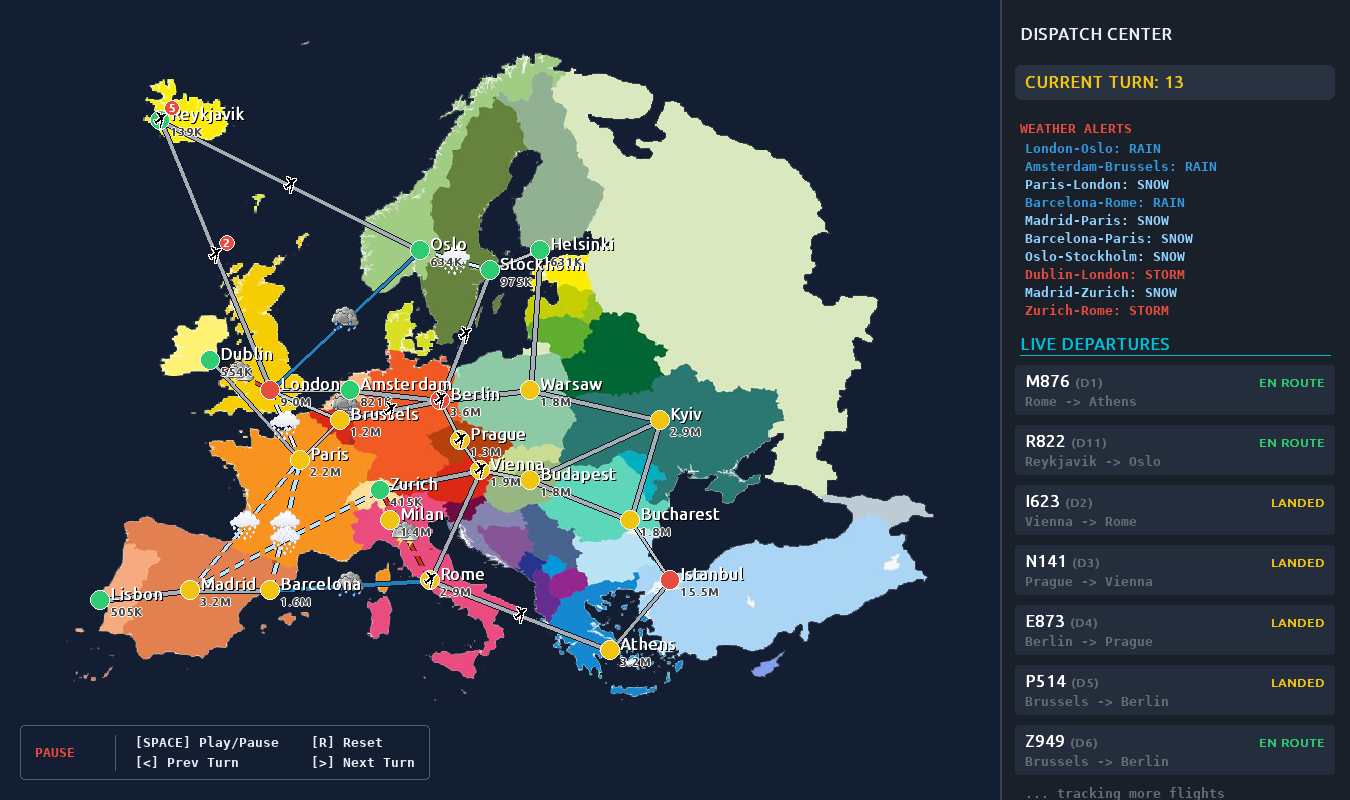
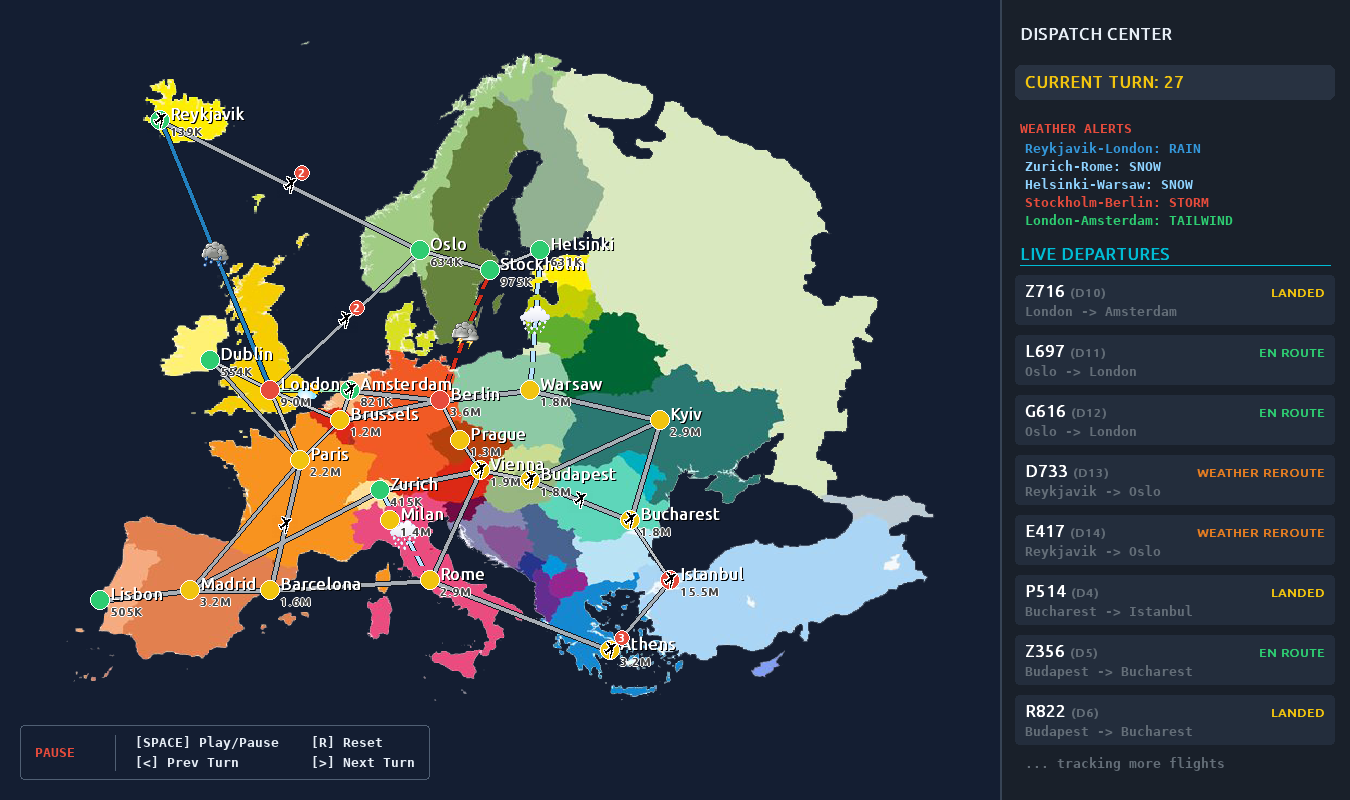
docs: show the simulator in motion
The README opens with two animations of the dispatch center: Germany,
turns 3 to 13, with cars on the roads, air lanes closing and reopening
and weather reroutes on the board, and Europe, turns 18 to 28, with air
traffic across the continent under changing weather.

A short section follows with three stills: Europe at turn 27 with all
five weather conditions and a visible weather reroute, a full-size
detail of turn 9 of the Germany animation with cars and the road and
air lane widths, and the challenger map in the unchanged standard
viewer. Each caption states only what its image shows. The full
Germany still is replaced by the animation.

diff --git a/README.md b/README.md
@@ -14,24 +14,22 @@ written from scratch in Python. On top of the routing core, the project adds
 an aviation layer: real maps of Germany and Europe, distance-based road and
 air legs, live weather, and a Pygame dispatch center.
 
-![Dispatch center on the Europe map at turn 13: air lanes closed by snow and storms drawn dashed, rain lanes open, wider lanes for higher capacity, weather alerts, and the departure board](docs/images/europe-simulation.png)
+![Animated dispatch center on the Germany map, turns 3 to 13: cars drive the road lanes, aircraft move from hub to hub, air lanes close and reopen with the weather, and the departure board marks weather reroutes](docs/images/germany-dispatch-center.gif)
 
-_Europe, turn 13: snow and storms close air lanes (dashed) while rain
-leaves them open, and wider lanes have a higher capacity._
+_Germany, turns 3–13, one frame per turn. Cars drive the roads while
+aircraft move from hub to hub; most air legs here take a single turn.
+Storms and snow close air lanes (dashed) until the weather clears, but
+the road from Kiel to Hamburg stays open through a storm. Flights whose
+route the weather changed show `WEATHER REROUTE` on the board._
 
-![Dispatch center on the Germany map at turn 9: closed air lanes and open road lanes in snow, cars on road legs, and weather reroutes on the departure board](docs/images/germany-simulation.png)
+![Animated dispatch center on the Europe map, turns 18 to 28: aircraft in flight across the continent, air lanes closing and reopening, and weather reroutes on the departure board](docs/images/europe-dispatch-center.gif)
 
-_Germany, turn 9: snow closes the air lanes but not the roads, where cars
-keep driving; two flights from Kiel are on a weather reroute._
+_Europe, turns 18–28: aircraft cross the continent as snow and storms
+close air lanes and others reopen, and the board lists flights on a
+weather reroute._
 
-![Standard turn viewer on the challenger map at turn 24: aircraft spread over parallel routes, lanes in use by multi-turn legs in blue, and the turn's movements above the map](docs/images/challenger-turn-viewer.png)
-
-_Challenger map, turn 24, in the standard turn viewer: aircraft spread
-over parallel routes, blue lanes carry legs that take more than one turn,
-and the turn's movements are listed above the map._
-
-The screenshots are generated by `make screenshots` (see
-[Development](#development)).
+Both animations and the screenshots below are replays of seeded runs,
+regenerated with `make screenshots` (see [Development](#development)).
 
 ## Highlights
 
@@ -54,6 +52,30 @@ The screenshots are generated by `make screenshots` (see
   weather alerts, and a replayable timeline.
 - **Event-driven core.** The simulation emits typed events; every output mode,
   from plain text to Pygame, is a listener on the same event stream.
+
+## A closer look
+
+![Dispatch center on the Europe map at turn 27: clear, rain, tailwind, snow and storm lanes at once, closed lanes dashed, and two flights on a weather reroute to Oslo](docs/images/europe-simulation.png)
+
+_Europe, turn 27: all five weather conditions at once. Clear lanes are
+gray, rain blue, tailwind green; snow and storm close their air lanes,
+drawn dashed. The two flights on a weather reroute to Oslo are the group
+marked 2 on the lane from Reykjavik._
+
+![Detail of the Germany map at turn 9: cars on road lanes from Kiel, Hamburg and Berlin, wider road lanes beside narrower air lanes, and the air lane from Hanover to Erfurt closed by a storm](docs/images/germany-detail.png)
+
+_Germany, turn 9 of the animation, at full size: cars on the roads from
+Kiel to Hamburg, Hamburg to Hanover, and Berlin to Dresden, in the rain.
+The roads hold three vehicles and are drawn 4 px wide; the air lanes hold
+one and are drawn 3 px wide. The storm has closed the air lane from
+Hanover to Erfurt._
+
+![Standard turn viewer on the challenger map at turn 24: aircraft spread over parallel routes, lanes in use by multi-turn legs in blue, and the turn's movements above the map](docs/images/challenger-turn-viewer.png)
+
+_The challenger map at turn 24 in the standard turn viewer, the original
+assignment's view: aircraft spread over parallel routes, blue lanes carry
+legs that take more than one turn, and the turn's movements are listed
+above the map._
 
 ## Quick start
 
@@ -422,9 +444,11 @@ make clean         # remove caches, coverage data, and the virtual environment
 `make check` or CI. Method and results are in
 [docs/engineering/performance-benchmark.md](docs/engineering/performance-benchmark.md).
 
-`make screenshots` regenerates the README screenshots in `docs/images`. It
-replays fixed turns headless, with seeded weather and flight numbers, and
-saves the window surface without a window frame. Two runs on the same
+`make screenshots` regenerates the README screenshots and animations in
+`docs/images`. It replays seeded runs headless, with fixed flight numbers,
+and saves the window surface without a window frame: one turn per
+screenshot, or one frame per consecutive turn for an animated GIF, written
+with Pillow from the development dependencies. Two runs on the same
 machine give identical files; fonts come from the system, so another
 machine may render text slightly differently.
 
